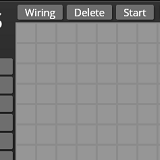
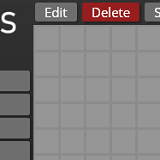
Redesigned and updated tutorial box

Changed region(s): [[0.0, 0.0, 1.0, 1.0]]

diff --git a/javascripts/sketch.js b/javascripts/sketch.js
@@ -89,7 +89,7 @@ let propLabel = -1;
 
 let showHints;
 let hintNum = 0;
-let closeHintsButton, nextHintButton;
+let closeTutorialButton, nextStepButton;
 let hintPic0, hintPic1, hintPic2, hintPic3, hintPic4, hintPic5,
     hintPic6, hintPic7, hintPic8, hintPic9, hintPic10, hintPic11,
     hintPic12, hintPic13, hintPic14, hintPic15, hintPic16, hintPic17,
@@ -424,8 +424,8 @@ function setup() { // jshint ignore:line
 
     //Upper left
 
-    // Activates the default mode
-    propertiesButton = createButton('Default');
+    // Activates the edit mode
+    propertiesButton = createButton('Edit');
     propertiesButton.position(152, 4);
     propertiesButton.mousePressed(function () {
         setActive(propertiesButton);
@@ -437,20 +437,20 @@ function setup() { // jshint ignore:line
 
     // Activates the delete mode (objects and wires)
     deleteButton = createButton('Delete');
-    deleteButton.position(231, 4);
+    deleteButton.position(207, 4);
     deleteButton.mousePressed(deleteClicked);
     deleteButton.elt.className = "button";
 
     // Starts and stops the simulation
     simButton = createButton('Start');
     simButton.elt.style.width = '34px';
-    simButton.position(304, 4);
+    simButton.position(280, 4);
     simButton.mousePressed(simClicked);
     simButton.elt.className = "button";
 
     // Undos the last action
     undoButton = createButton('Undo');
-    undoButton.position(366, 4);
+    undoButton.position(342, 4);
     undoButton.mousePressed(() => {
         undo();
     });
@@ -459,7 +459,7 @@ function setup() { // jshint ignore:line
 
     // Redos the last action
     redoButton = createButton('Redo');
-    redoButton.position(432, 4);
+    redoButton.position(408, 4);
     redoButton.mousePressed(() => {
         redo();
     });
@@ -468,7 +468,7 @@ function setup() { // jshint ignore:line
 
     // Activates the mode for area selecting
     selectButton = createButton('Select');
-    selectButton.position(496, 4);
+    selectButton.position(472, 4);
     selectButton.mousePressed(startSelect);
     selectButton.elt.className = "button";
 
@@ -506,24 +506,24 @@ function setup() { // jshint ignore:line
     ascustomButton.elt.className = "button";
 
     // Button to close the hints
-    closeHintsButton = createButton('Close Hints');
-    closeHintsButton.position(370, windowHeight - 45);
-    closeHintsButton.mousePressed(function () {
+    closeTutorialButton = createButton('Close Tutorial');
+    closeTutorialButton.position(370, windowHeight - 65);
+    closeTutorialButton.mousePressed(function () {
         document.cookie = "ClosedHint=true";
         showHints = false;
         hintNum = 0;
-        closeHintsButton.hide();
-        nextHintButton.hide();
+        closeTutorialButton.hide();
+        nextStepButton.hide();
     });
-    closeHintsButton.elt.className = "button";
+    closeTutorialButton.elt.className = "button";
 
     // Button to open the next hint
-    nextHintButton = createButton('Next Hint');
-    nextHintButton.position(480, windowHeight - 45);
-    nextHintButton.mousePressed(function () {
+    nextStepButton = createButton('Next Step');
+    nextStepButton.position(494, windowHeight - 65);
+    nextStepButton.mousePressed(function () {
         hintNum++;
     });
-    nextHintButton.elt.className = "button";
+    nextStepButton.elt.className = "button";
 
     /*
         Elements for the properties mode
@@ -621,8 +621,8 @@ function setup() { // jshint ignore:line
     //Hide hints if there is a cookie 
     if ((getCookieValue("ClosedHint") === "true")) {
         showHints = false;
-        closeHintsButton.hide();
-        nextHintButton.hide();
+        closeTutorialButton.hide();
+        nextStepButton.hide();
     }
     else {
         showHints = true;
@@ -1658,117 +1658,117 @@ function showTutorial() {
     textFont('Gudea');
     switch (hintNum) {
         case 0:
-            displayHint(1000, hintPic0, 'Welcome!', 'LogiJS is a logic circuit editor.',
-                'It\'s designed to be simple to use, yet powerful.');
+            displayHint(450, hintPic0, 'Welcome!', 'If this is your first time using LogiJS,',
+                'we suggest you to go through this quick tutorial.');
             break;
         case 1:
-            displayHint(1100, hintPic1, 'Navigation', 'Use the mouse wheel to zoom in and out!',
-                'Drag the sketch by holding the right mouse button.');
+            displayHint(600, hintPic1, 'Navigation', 'You can drag the sketch area by dragging with the right',
+                'mouse button pressed. To zoom in and out, use the mouse wheel.');
             break;
         case 2:
-            displayHint(1200, hintPic2, 'Basic elements', 'You can add And, Or and Xor Gates by clicking on',
+            displayHint(500, hintPic2, 'Basic components', 'You can add the standard gate types by clicking on',
                 'the buttons on the left and then clicking on the canvas.');
             break;
         case 3:
-            displayHint(1100, hintPic3, 'Basic elements', 'Placing in- and outputs is just as easy.',
-                'Try adding a switch and a lamp next to a gate!');
+            displayHint(450, hintPic3, 'Basic components', 'Placing in- and outputs is just as easy.',
+                'Try adding switches and a lamp next to a gate!');
             break;
         case 4:
-            displayHint(1200, hintPic4, 'Connecting the dots', 'Click on the \'Wiring\' button in the top left corner.',
-                'Add wires by dragging with the left mouse button pressed.');
+            displayHint(600, hintPic4, 'Connecting the dots', 'You can always add wires by simply dragging with the left',
+                'mouse button pressed. Go ahead and connect your components!');
             break;
         case 5:
-            displayHint(1300, hintPic5, 'Starting the simulation', 'By clicking on the \'Start\' button in the top left corner,',
+            displayHint(500, hintPic5, 'Starting the simulation', 'By clicking on the \'Start\' button in the top left corner,',
                 'you can start the simulation. Clicking it again will stop it.');
             break;
         case 6:
-            displayHint(1200, hintPic6, 'Simulation mode', 'In the simulation, you can left-click on the inputs',
-                'you\'ve placed to see the logic circuit act accordingly.');
+            displayHint(500, hintPic6, 'Simulation mode', 'During simulation, you can left-click on the inputs',
+                'you\'ve placed to see your logic circuit act accordingly.');
             break;
         case 7:
-            displayHint(1500, hintPic7, 'Deleting elements', 'Click on the \'Delete\' button in the top left corner. Now you can',
-                'delete elements by clicking on them. To delete wires, just drag over them.');
+            displayHint(650, hintPic7, 'Deleting components', 'Click the \'Delete\' button in the top left corner. Now you can delete',
+                'components by left-clicking on them. To delete wires, just drag over them.');
             break;
         case 8:
-            displayHint(1200, hintPic8, 'Undo and Redo', 'If you want to undo any change you\'ve made',
+            displayHint(500, hintPic8, 'Undo and Redo', 'If you want to undo any change you\'ve made',
                 'to the sketch, just use the \'Undo\' and \'Redo\' buttons.');
             break;
         case 9:
-            displayHint(1500, hintPic9, 'Switches, Buttons and Clocks', 'In contrast to the switch elements you\'ve already used,',
-                'buttons are only activated for a short period of time when clicked on them.');
+            displayHint(650, hintPic9, 'Switches, Buttons and Clocks', 'In contrast to the switch component you\'ve already used, buttons are ',
+                'only activated for a short period of time when clicked on them.');
             break;
         case 10:
-            displayHint(1500, hintPic10, 'Switches, Buttons and Clocks', 'Clocks are switches that turn on and off automatically,',
-                'you can change their speed in the properties menu that you\'ll see in a bit.');
+            displayHint(650, hintPic10, 'Switches, Buttons and Clocks', 'Clocks are switches that turn on and off automatically, you can change',
+                'their speed in the properties menu that we\'ll show you in a bit.');
             break;
         case 11:
-            displayHint(1500, hintPic11, 'Additional settings', 'Some elements have properties like input width and direction, that',
-                'appear in the bottom left when clicking on the corresponding element button.');
+            displayHint(700, hintPic11, 'Additional settings', 'Some components have properties like input width and direction, that appear',
+                'in the bottom left when clicking on the corresponding component button.');
             break;
         case 12:
-            displayHint(1500, hintPic12, 'The properties mode', 'By hitting \'Properties\' or the escape key, you enter the properties',
-                'mode. You can now invert in- and outputs of gates by clicking on them. ');
+            displayHint(700, hintPic12, 'Edit mode', 'By clicking \'Edit\' or using the escape key, you enter the edit mode. You can now',
+                'invert in- and outputs of gates and custom components by clicking on them. ');
             break;
         case 13:
-            displayHint(1500, hintPic13, 'The properties mode', 'When clicking on in- or output elements (eg. switches or lamps),',
-                'you can change various properties of these elements in the appearing menu.');
+            displayHint(700, hintPic13, 'Edit mode', 'When clicking on in- or output components (eg. switches or lamps),',
+                'you can change various properties of these components in the appearing menu.');
             break;
         case 14:
-            displayHint(1500, hintPic14, '7-Segment displays', 'These take a variable number of input bits and display their binary',
-                'value in decimal form. You can change the bit width in the additional settings.');
+            displayHint(750, hintPic14, '7-Segment displays', 'These take a variable number of input bits and display their binary value in decimal',
+                'form. You can change the bit width in the additional settings before placing them.');
             break;
         case 15:
-            displayHint(1500, hintPic15, 'Advanced elements', 'These are more complex elements that are each made out of another',
-                'sketch. This list is just a selection of custom elements that are pre-built by us.');
+            displayHint(750, hintPic15, 'Advanced components', 'These are more complex components that are each made out of another',
+                'sketch. This list is just a selection of custom components that are pre-built by us.');
             break;
         case 16:
-            displayHint(1500, hintPic16, 'Loading and saving', 'To save a sketch, type in a name in the top right and hit save.',
+            displayHint(600, hintPic16, 'Loading and saving', 'To save a sketch, type in a name in the top right corner and hit save.',
                 'You can then choose a folder on your hard drive to save it locally.');
             break;
         case 17:
-            displayHint(1200, hintPic17, 'Loading and saving', 'To load sketches, you must have a local',
+            displayHint(400, hintPic17, 'Loading and saving', 'To load sketches, you must have a local',
                 'LogiJS version on your computer. ');
             break;
         case 18:
-            displayHint(1500, hintPic16, 'Loading and saving', 'Make sure, your sketch file is in the \'sketches\' folder of your',
-                'LogiJS version. Type the file name into the input field and hit \'Load\' or enter.');
+            displayHint(700, hintPic16, 'Loading and saving', 'Make sure, your sketch file is in the \'sketches\' folder of your LogiJS version.',
+                'Type the file name into the input field and hit \'Load\' or the enter key.');
             break;
         case 19:
-            displayHint(1500, hintPic19, 'Diodes', 'Diodes are elements that join two crossing wires in the horizontal',
+            displayHint(650, hintPic19, 'Diodes', 'Diodes are components that join two crossing wires in the horizontal',
                 'but not in the vertical direction. They can be used for diode matrices.');
             break;
         case 20:
-            displayHint(1600, hintPic20, 'Diodes', 'Please load the sketch \'traffic\'. As you can see, there is an area with',
-                'multiple diodes (little triangles) on it.');
+            displayHint(550, hintPic20, 'Diodes', 'Please load the sketch called \'traffic\'. As you can see,',
+                'there is an area with multiple diodes (little triangles) on it.');
             break;
         case 21:
-            displayHint(1500, hintPic21, 'Diodes', 'In properties mode, you can toggle diodes by clicking on them or on empty wire',
-                'crossings. Start the simulation to see how they are used in this example!');
+            displayHint(750, hintPic21, 'Diodes', 'In edit mode, you can toggle diodes and connection points by clicking on them or on',
+                'empty wire crossings. Start the simulation to see how they are used in this example!');
             break;
         case 22:
-            displayHint(1500, hintPic22, 'Custom elements', 'If, instead of hitting \'Load\', you click on \'Import\', your sketch',
-                'is imported as a custom element. Click anywhere on the sketch to place it.');
+            displayHint(700, hintPic22, 'Custom components', 'If instead of hitting \'Load\' you click on \'Import\', your sketch will be',
+                'imported as a custom component. Click anywhere on the sketch to place it.');
             break;
         case 23:
-            displayHint(1600, hintPic23, 'Custom elements', 'You can name in- and outputs and set inputs to the top of the element',
+            displayHint(650, hintPic23, 'Custom components', 'You can name in- and outputs and set inputs to the top of the component',
                 'by altering these settings in the properties menu of the sketch to import.');
             break;
         case 24:
-            displayHint(1100, hintPic24, 'Custom elements', 'Pro tip: Inputs labeled with \'>\' will',
-                'appear as clock inputs with an arrow drawn on them.');
+            displayHint(450, hintPic24, 'Custom components', 'Inputs labeled with \'>\' will appear as',
+                'clock inputs with an arrow drawn on them.');
             break;
         case 25:
-            displayHint(1300, hintPic25, 'Labels', 'You can add labels using the \'Label\' button.',
-                'You can change their text in properties mode by clicking on them.');
+            displayHint(600, hintPic25, 'Labels', 'You can add text labels using the \'Label\' button. The text can',
+                'be changed in the properties menu after clicking on them.');
             break;
         case 26:
-            displayHint(1500, hintPic26, '\'New\' and \'Select\'', 'Click on \'New\' to start a new sketch. When clicking on \'Select\'',
-                'you can select parts of your sketch and move them on the canvas.');
+            displayHint(650, hintPic26, '\'New\' and \'Select\'', 'Click on \'New\' to start a new sketch. When clicking on \'Select\' you can',
+                'select parts of your sketch to move them on the canvas or delete them.');
             break;
         case 27:
-            displayHint(1500, hintPic0, 'Thank you!', 'You\'ve reached the end of this small tutorial on LogiJS.',
-                'We hope that you like our work. You can give us feedback via Twitter.');
-            nextHintButton.hide();
+            displayHint(600, hintPic0, 'Thank you!', 'You\'ve reached the end of this little tutorial on LogiJS.',
+                'We hope that you like our work and we value any feedback from you.');
+            nextStepButton.hide();
             break;
         default:
             break;
@@ -1778,20 +1778,24 @@ function showTutorial() {
 /*
     Displays the given hint text (two lines + caption) and an image in a box in the bottom left corner
 */
-function displayHint(bubbleWidth, img, caption, line1, line2) {
+function displayHint(width, img, caption, line1, line2) {
     // Draw a red ellipse and a rectangle to form the box shape
     fill(200, 50, 50);
-    ellipse(200, window.height, bubbleWidth, 400);
-    rect(0, window.height - 200, 200, 200);
+    stroke(50);
+    strokeWeight(3);
+    rect(20, window.height - 220, width + 200, 200);
     // Display the given image in the bottom left
-    image(img, 20, window.height - 180);
+    strokeWeight(6);
+    rect(40, window.height - 200, 160, 160);
+    image(img, 40, window.height - 200);
     // Set the text attributes and draw caption and text lines
     fill(255);
+    noStroke();
     textSize(30);
-    text(caption, 220, window.height - 170);
+    text(caption, 220, window.height - 190);
     textSize(20);
-    text(line1, 220, window.height - 115);
-    text(line2, 220, window.height - 85);
+    text(line1, 220, window.height - 135);
+    text(line2, 220, window.height - 105);
 }
 
 function showElements() {

diff --git a/javascripts/mouse.js b/javascripts/mouse.js
@@ -678,6 +678,9 @@ function mouseOverSegDisplay() {
 
 //Checks if the mouse hovers over the GUI(true) or the grid(false)
 function mouseOverGUI() {
+    if (mouseY > window.height - 220 && mouseX < 970 && showHints) {
+        return true;
+    }
     if (propInput + propOutput + propLabel < -2) {
         return (mouseY < 0) || (mouseX < 0);
     } else {
